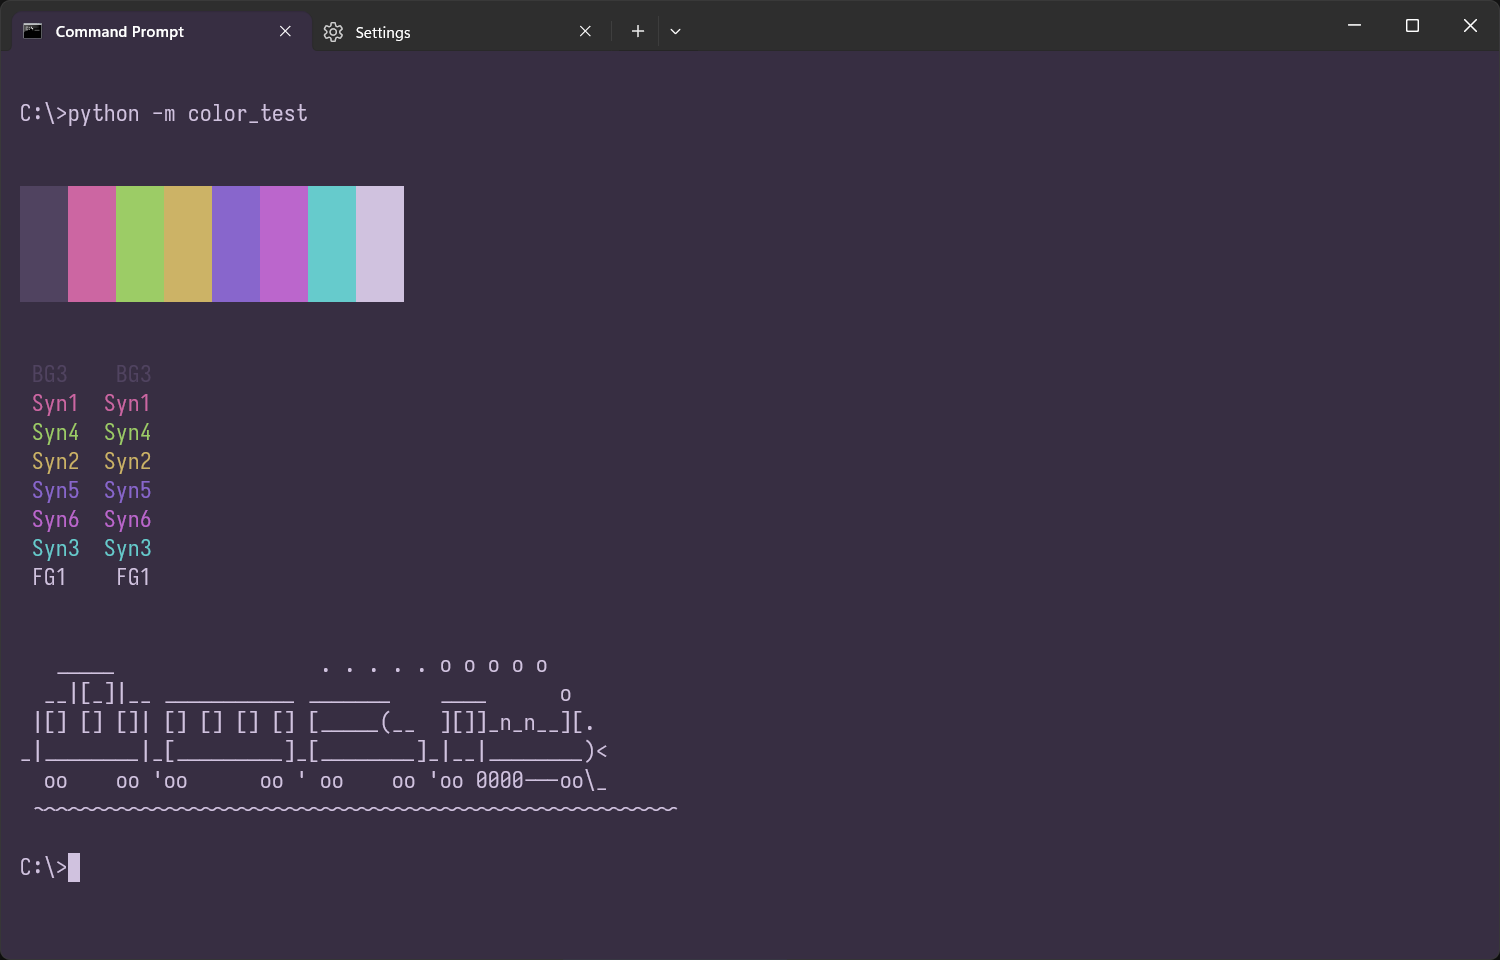
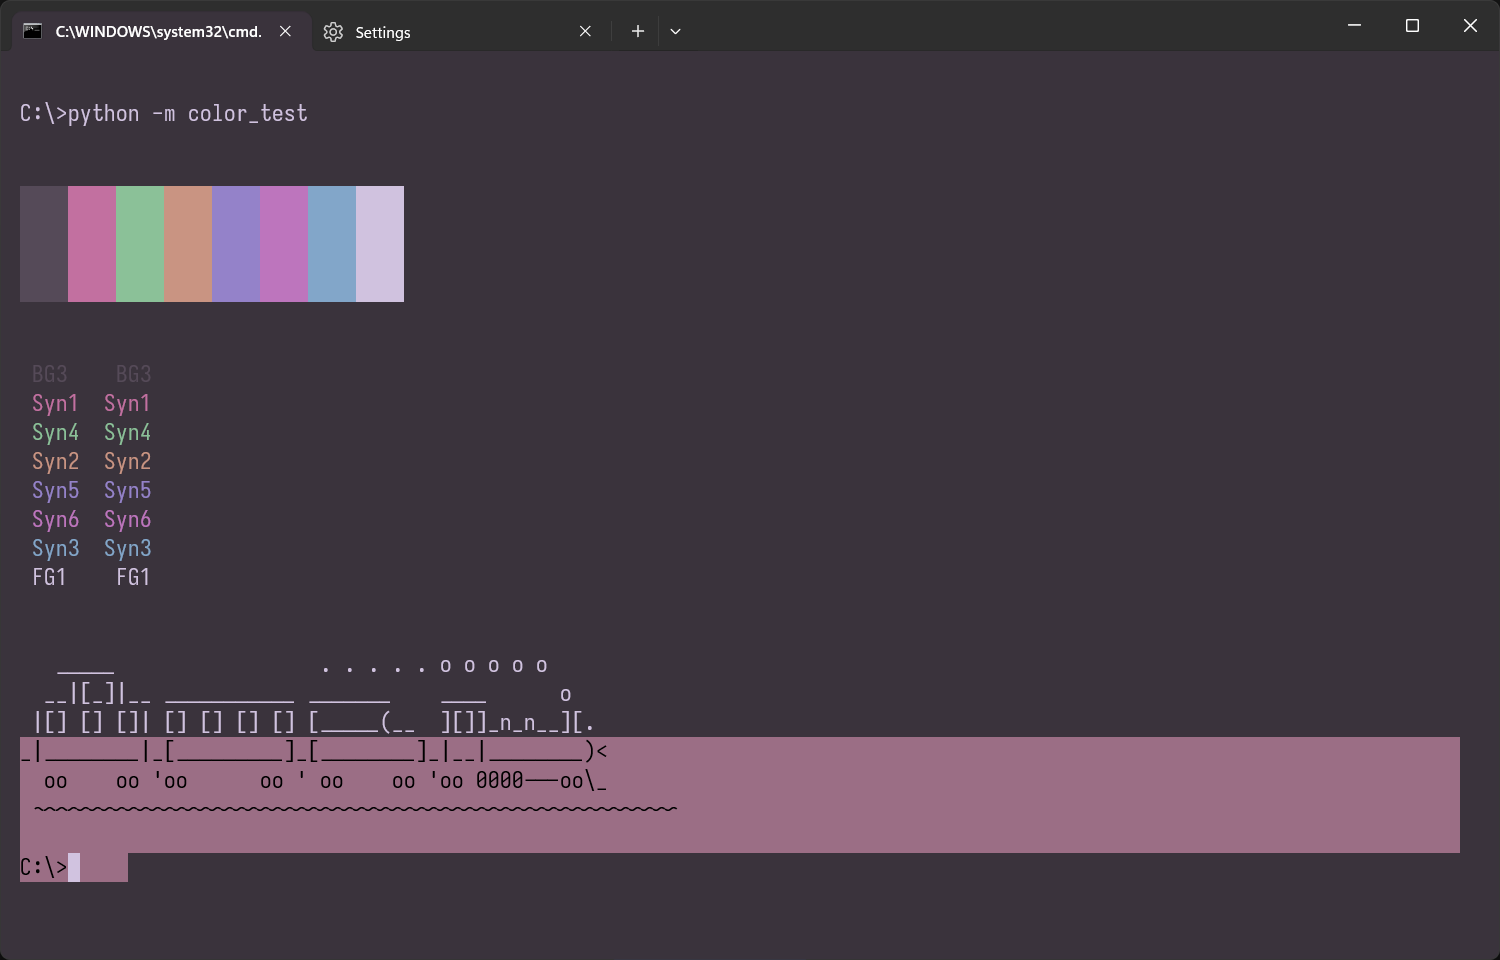
rework rage theme

diff --git a/scheme_files/other/rage.html b/scheme_files/other/rage.html
@@ -26,18 +26,18 @@ this template is meant as a reference sheet for your color theme
 			</tr>
 			<tr>
 				<td>Background - 1st level<br><a>UI: default text bg</a></td>
-				<td>#372E42</td>
-				<td style="background-color:#372E42;"></td>
+				<td>#3A333C</td>
+				<td style="background-color:#3A333C;"></td>
 			</tr>
 			<tr>
 				<td>Background - 2nd level<br><a>UI: inactive tab or file bg, 2nd level surfaces bg</a></td>
-				<td>#433850</td>
-				<td style="background-color:#433850;"></td>
+				<td>#483F4B</td>
+				<td style="background-color:#483F4B;"></td>
 			</tr>
 			<tr>
 				<td>Background - 3rd level<br><a>UI: separators, other bg symbols</a></td>
-				<td>#504360</td>
-				<td style="background-color:#504360;"></td>
+				<td>#554A58</td>
+				<td style="background-color:#554A58;"></td>
 			</tr>
 			<tr>
 				<td>Foreground - 1st level<br><a>UI: cursor
@@ -83,35 +83,35 @@ this template is meant as a reference sheet for your color theme
 			<tr>
 				<td>syntax 1<br><a>UI: change history modified, alert, error
                 <br>SYNTAX: macro, methods, functions, symbols (question mark, shebang, etc.)<br>TERMINAL: red</a></td>
-				<td>#CC66A2</td>
-				<td style="background-color:#CC66A2;"></td>
+				<td>#c270a0</td>
+				<td style="background-color:#c270a0;"></td>
 			</tr>
 			<tr>
 				<td>syntax 2<br><a>UI: change history revert origin, change history revert modified, warnings
                 <br>SYNTAX: strings, char, regex, verbatim<br>TERMINAL: yellow</a></td>
-				<td>#CCB366</td>
-				<td style="background-color:#CCB366;"></td>
+				<td>#c99482</td>
+				<td style="background-color:#c99482;"></td>
 			</tr>
 			<tr>
 				<td>syntax 3<br><a>SYNTAX: opertors, variables, identifiers<br>TERMINAL: cyan</a></td>
-				<td>#66CBCC</td>
-				<td style="background-color:#66CBCC;"></td>
+				<td>#82a6c9</td>
+				<td style="background-color:#82a6c9;"></td>
 			</tr>
 			<tr>
 				<td>syntax 4<br><a>UI: change history saved
                 <br>SYNTAX: conditionals, keywords, tags, commands, instructions<br>TERMINAL: green</a></td>
-				<td>#9CCC66</td>
-				<td style="background-color:#9CCC66;"></td>
+				<td>#8bc198</td>
+				<td style="background-color:#8bc198;"></td>
 			</tr>
 			<tr>
 				<td>syntax 5<br><a>SYNTAX: keys, types, class, groups, sections, preprocessor<br>TERMINAL: blue</a></td>
-				<td>#8866CC</td>
-				<td style="background-color:#8866CC;"></td>
+				<td>#9482c9</td>
+				<td style="background-color:#9482c9;"></td>
 			</tr>
 			<tr>
 				<td>syntax 6<br><a>SYNTAX: qualifier, numbers, booleans, attributes<br>TERMINAL: magenta (purple)</a></td>
-				<td>#BB66CC</td>
-				<td style="background-color:#BB66CC;"></td>
+				<td>#bd75bd</td>
+				<td style="background-color:#bd75bd;"></td>
 			</tr>
 		</table>
 		<br>

diff --git a/doc/galery.md b/doc/galery.md
@@ -121,7 +121,8 @@ The background should resemble the sky during dawn. This was combined with color
 ![](/assets/pictures/text-editor/pastel-sky.png)<br><br>
 ![](/assets/pictures/terminal/pastel-sky.png)<br><br>
 **Rage**<br>
-A medium dark theme focussing on red and violet tones.<br><br>
+My Zen and Rage themes are related to each other and the result of the same conzept. A slightly muted quality in their colors.<br>
+For Rage it's the "muted" emotion you are holding back.<br><br>
 ![](/assets/pictures/text-editor/rage.png)<br><br>
 ![](/assets/pictures/terminal/rage.png)<br><br>
 **Retro**<br>
@@ -160,7 +161,8 @@ Combined with some retro colors (I had the 80's in mind) you get a "synthetic" l
 ![](/assets/pictures/text-editor/vintage.png)<br><br>
 ![](/assets/pictures/terminal/vintage.png)<br><br>
 **Zen**<br>
-A medium dark theme with a slightly burned look.<br><br>
+My Zen and Rage themes are related to each other and the result of the same conzept. A slightly muted quality in their colors.<br>
+For Zen it's the "quietness" of a calm mind.<br><br>
 ![](/assets/pictures/text-editor/zen.png)<br><br>
 ![](/assets/pictures/terminal/zen.png)<br><br>
 
